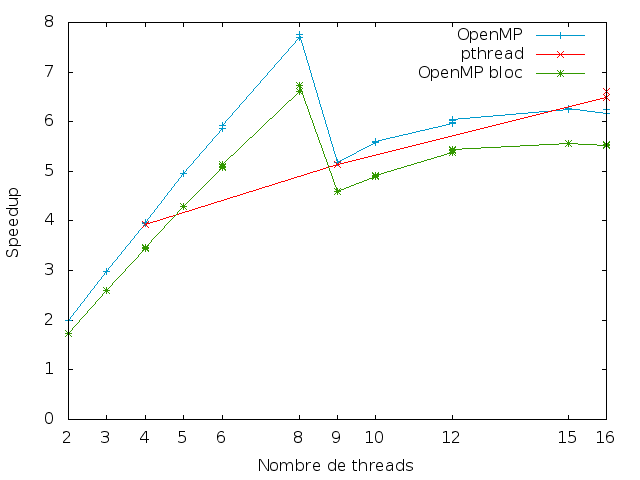
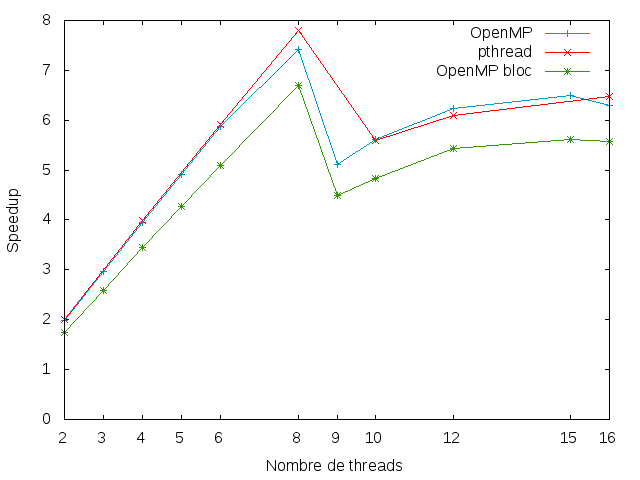
rapport

diff --git a/rapport/execution.tex b/rapport/execution.tex
@@ -5,8 +5,7 @@ Les tests de performances ont été effectués sur la machine PlaFRIM, en utilis
 
 La première version du code améliorée avec \texttt{OpenMP} donne des résultats intéressants, mais possible à améliorer. Quand les blocs deviennent très grands les accès mémoire ralentissent le programme. L'idée est de séparer les calculs en blocs (pavage) pour réduire ces temps d'accès à la mémoire (seconde version \texttt{OpenMP}). Les temps obtenus ne sont pas très concluants. Une autre possibilité disponible avec \texttt{OpenMP} est l'utilisation des tâches. On génère des tâches ayant des tailles de blocs optimales et on exécute ces tâches. Un des avantages d'\texttt{OpenMP} est de pouvoir définir facilement un nombre de threads quelconque.\\
 
-Pour les performances obtenues avec \texttt{pthread}, elle sont similaires à \texttt{OpenMP} pour le même nombre de threads. En effet, les deux versions utilisent le même type de ressources pour améliorer le temps de calcul. Le programme \texttt{pthread} actuel utilise des barrières pour s'assurer que les calculs précédents ont été effectués (à la façon d'\texttt{OpenMP}). Il est possible, avec un sémaphore par thread, de limiter les attentes à la terminaison des blocs adjacents et ainsi pour voir commencer l'étape suivante alors que certains threads n'ont pas terminé la précédente. Comme le nombre de threads disponibles sur un processeur ne peut pas dépasser une certaine valeur, il est plus intéressant (dans le cas des sémaphores) d'utiliser des blocs colonnes (car les matrices sont stockées en colonne dans notre projet). Enfin les blocs de threads ayant une taille dépendant de la matrice, il faudrait découper ces blocs en sous-blocs pour pouvoir optimiser les accès à la mémoire.
-
+Pour les performances obtenues avec \texttt{pthread}, elle sont similaires à \texttt{OpenMP} pour le même nombre de threads. En effet, les deux versions utilisent le même type de ressources pour améliorer le temps de calcul. Le programme \texttt{pthread} actuel utilise des barrières pour s'assurer que les calculs précédents ont été effectués (à la façon d'\texttt{OpenMP}). Il est possible, avec un sémaphore par thread, de limiter les attentes à la terminaison des blocs adjacents et ainsi pour voir commencer l'étape suivante alors que certains threads n'ont pas terminé la précédente. Comme le nombre de threads disponibles sur un processeur ne peut pas dépasser une certaine valeur, il est plus intéressant (dans le cas des sémaphores) d'utiliser des blocs colonnes (car les matrices sont stockées en colonne dans notre projet). Enfin les blocs de threads ayant une taille dépendant de la matrice, il faudrait découper ces blocs en sous-blocs pour pouvoir optimiser les accès à la mémoire. On peut remarquer que la version pthread est légèrement meilleure aux pics de performance, ceci est causé par la surcouche apportée par \texttt{OpenMP}, à l'inverse, quand le nombre de thread n'est pas optimal, \texttt{OpenMP} est légèrement devant.
 
 \begin{figure}[h!]
 \centering
@@ -20,9 +19,9 @@ La figure \ref{fig:sp-thread} montre les résultats obtenus pour les versions à
 
 Les performances de la version \texttt{MPI} sont meilleures que celles des versions multi-thread. \texttt{MPI} permet rajouter un nombre illimité de processus et donc de dépasser les accélérations des autres versions. Les trois versions de \texttt{MPI} ont des performances sensiblement identiques car les matrices testées ne sont pas exceptionnellement grandes et le nombre de processus reste relativement faible comparé à un gros calculateur. Cependant, la version synchrone avec les communications bloquantes reste la moins efficace, puisqu'elle ne fait rien durant ses communications. La différence entre la version asynchrone et la version persistante est la rapidité d'exécution des communications. La version persistante n'a pas besoin de copier les buffers et de préparer les requêtes ; le programme gagne donc un peu de temps, mais cela n'est visible que sur de longues exécutions avec beaucoup de communications.
 
-\begin{figure}[H]
+\begin{figure}[h!]
 \centering
-% \includegraphics[width=0.8\textwidth]{sp-proc.png}
+\includegraphics[width=0.8\textwidth]{speedup-mpi.png}
 \caption{Speed up des versions multi-processus}
 \label{fig:sp-proc}
 \end{figure}

diff --git a/rapport/jeu_de_la_vie.tex b/rapport/jeu_de_la_vie.tex
@@ -1,7 +1,7 @@
 \section{Jeu de la vie} % (fold)
 \label{sec:jeu_de_la_vie}
 
-Le jeu de la vie est un modèle d'automate, dans lequel chacun des états connaît son état futur par le calcul de règles préétablies. Le jeu a été imaginé sur une grille à deux dimensions mais pourrait se généraliser dans n'importe quelle dimension. Nous allons toujours parler du jeu en deux dimensions. Les règles du jeu de la vie, pour chaque cellule, sont dépendantes des huit cellules voisines.
+Le jeu de la vie est un modèle d'automate, dans lequel chacun des états connaît son état futur par le calcul de règles préétablies. Le jeu a été imaginé sur une grille à deux dimensions mais pourrait se généraliser dans n'importe quelle dimension. Nous allons toujours parler du jeu en deux dimensions. Dans les règles du jeu de la vie, chaque cellule, est dépendante des huit cellules voisines.
 \begin{itemize}
 \item Une cellule morte possédant exactement trois voisines vivantes devient vivante.
 \item Une cellule vivante possédant deux ou trois voisines vivantes le reste, sinon elle meurt.
@@ -14,7 +14,7 @@ Ainsi, lorsque l'on possède trois voisins, nous sommes donc assurés d'être vi
 \begin{minipage}{.3\textwidth}
 \centering
 \includegraphics[width=0.5\textwidth]{Gol-born}
-\caption{Une cellule vit}
+\caption{Une cellule nait}
 \label{alive}
 \end{minipage}
 \hspace{0.5cm}

diff --git a/rapport/parallel.tex b/rapport/parallel.tex
@@ -1,6 +1,6 @@
 \section{Implémentation des différentes versions} % (fold)
 \label{sec:diff_rents_versions}
-Dans cette partie, nous allons exposer les différentes versions parallèles du jeu de la vie que nous avons développées. Dans un premier temps, nous allons voir les différentes versions utilisant une mémoire partagée (section \ref{partagee}), puis les version \texttt{MPI} (section \ref{mpi}), utilisant d'abord des communications synchrones, puis des communications asynchrones, et enfin persistantes. Le code itère sur une boucle incrémentant une variable $loop$ qui indique combien de fois on a effectué l'actualisation du plateau. 
+Dans cette partie, nous allons exposer les différentes versions parallèles du jeu de la vie que nous avons développé. Dans un premier temps, nous allons voir les différentes versions utilisant une mémoire partagée (section \ref{partagee}), puis les version \texttt{MPI} (section \ref{mpi}), utilisant d'abord des communications synchrones, puis des communications asynchrones, et enfin persistantes. Le code itère sur une boucle incrémentant une variable $loop$ qui indique combien de fois on a effectué l'actualisation du plateau. 
 
 \subsection{Mémoire partagée}
 \label{partagee}

diff --git a/rapport/introduction.tex b/rapport/introduction.tex
@@ -1,4 +1,4 @@
 \section{Introduction} % (fold)
 \label{sec:introduction}
-Le but du projet était d'implémenter le jeu de la vie, introduit par John Horton Conway en 1970, en comparant une version séquentielle et diverses versions parallèles. Pour cela, nous avons utilisé OpenMP, pthread ou encore MPI.
+Le but du projet était d'implémenter le jeu de la vie, introduit par John Horton Conway en 1970, en comparant une version séquentielle et diverses versions parallèles. Pour cela, nous avons utilisé \texttt{OpenMP}, \texttt{pthread} ou encore \texttt{MPI}.
 
